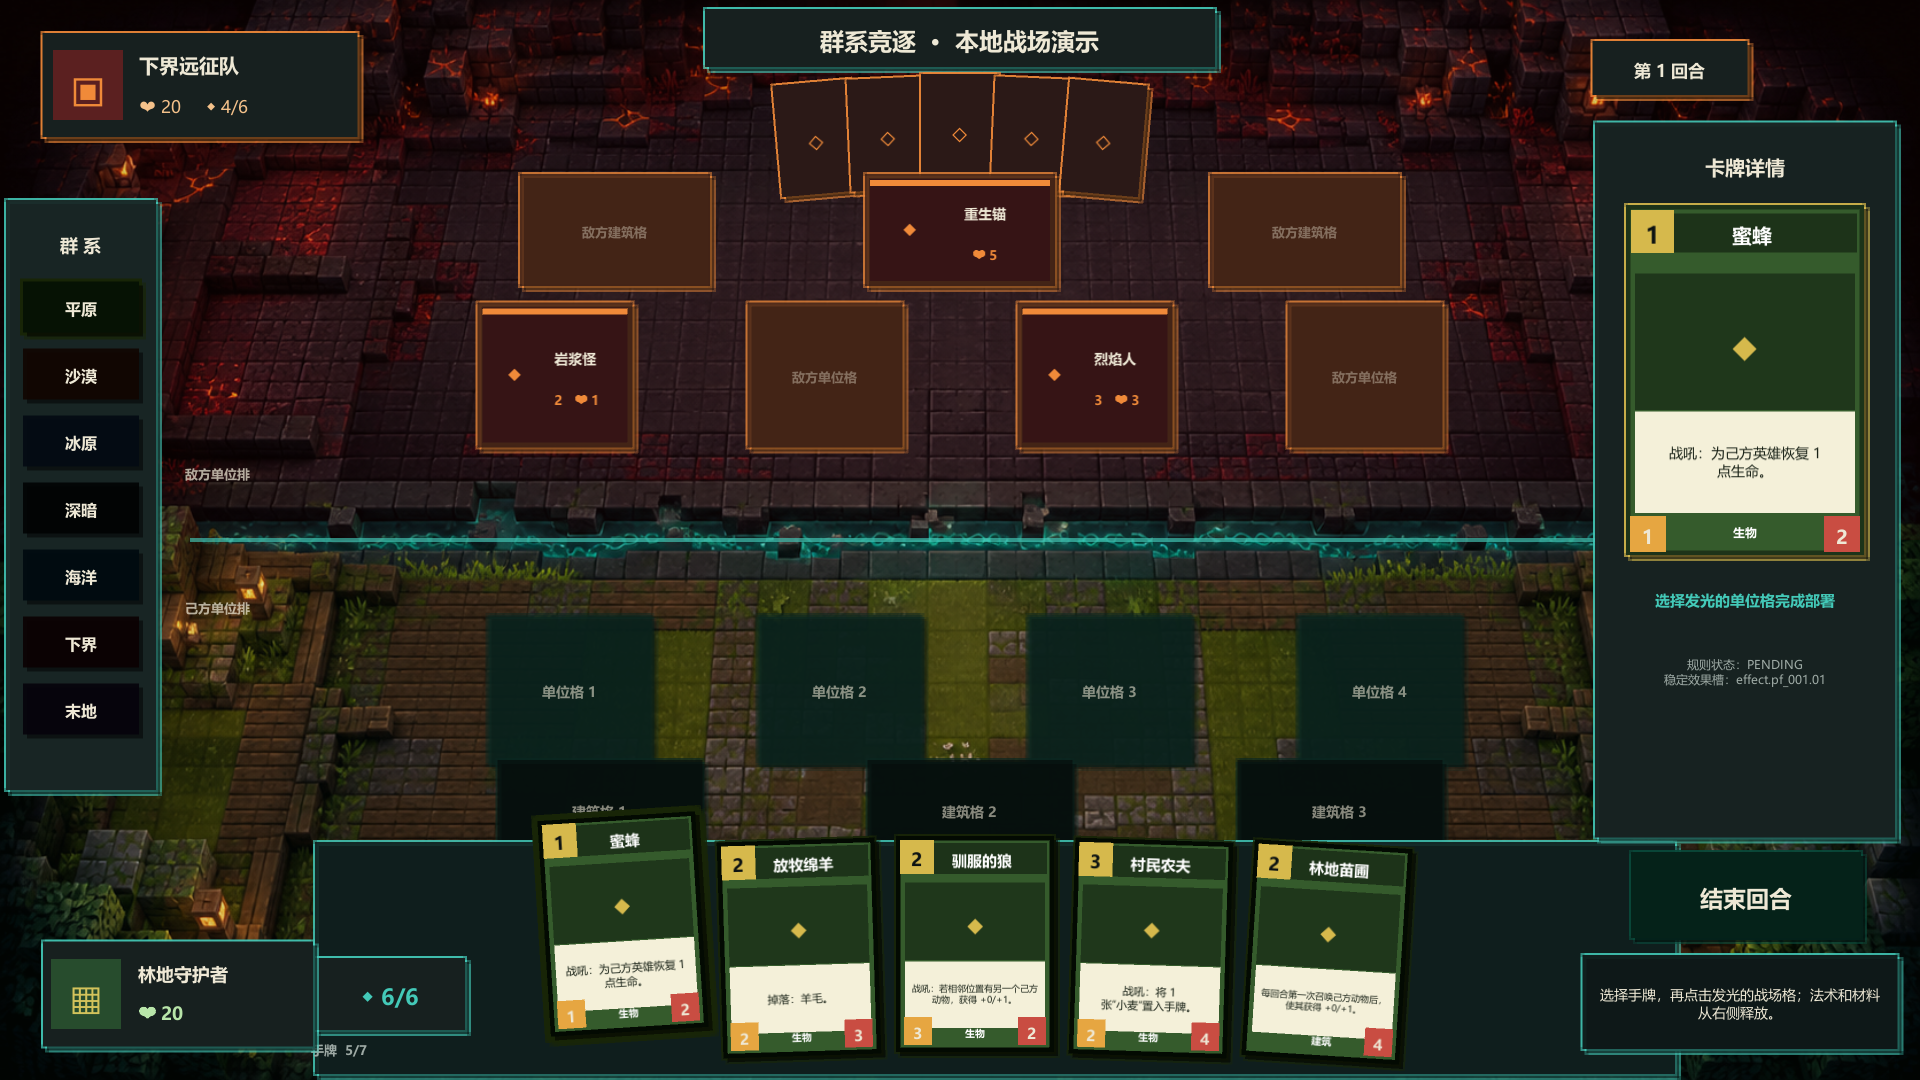
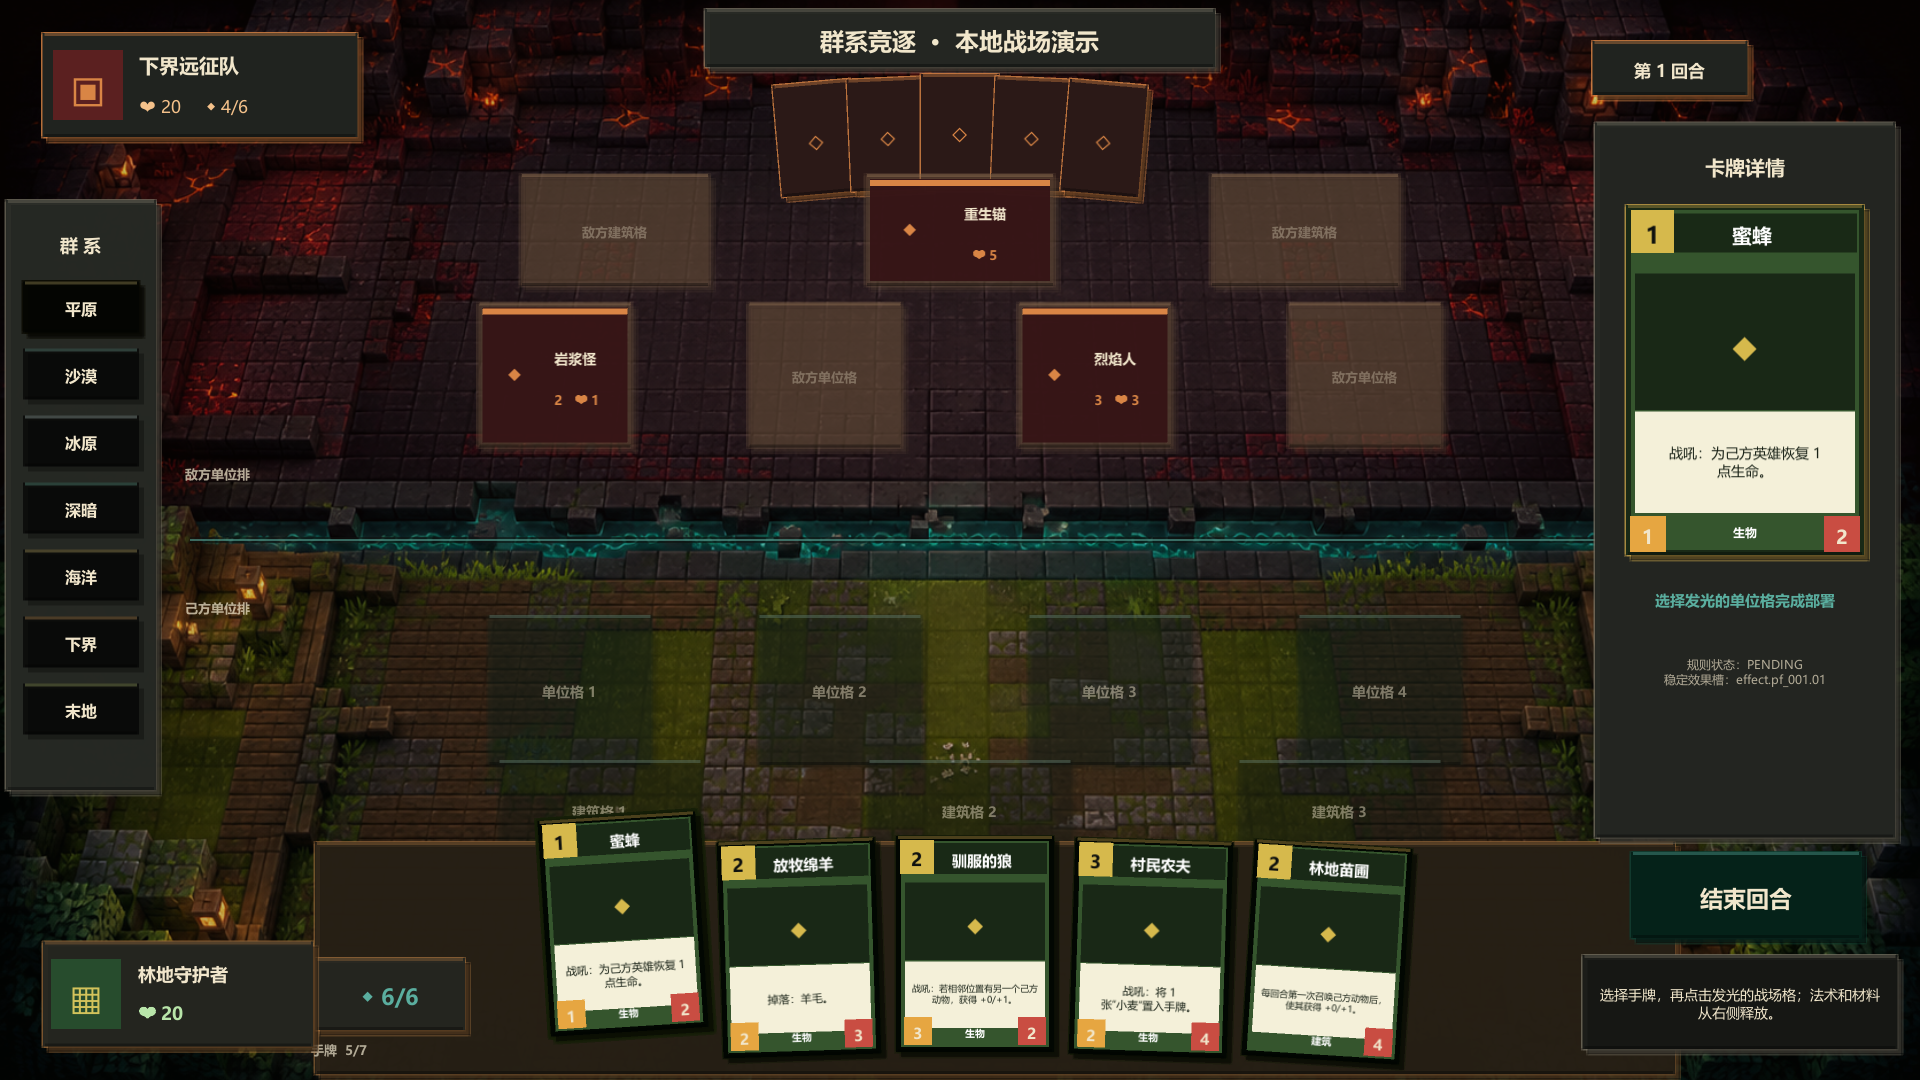
fix: unify demo UI with battlefield art

diff --git a/client-unity/Assets/Game/Demo/Runtime/DemoSceneController.cs b/client-unity/Assets/Game/Demo/Runtime/DemoSceneController.cs
@@ -15,13 +15,15 @@ namespace BiomeRivals.Demo
         private const float ReferenceWidth = 1920f;
         private const float ReferenceHeight = 1080f;
 
-        private static readonly Color Ink = Hex("#0C1212");
-        private static readonly Color Panel = Hex("#17201F");
-        private static readonly Color PanelRaised = Hex("#25302D");
-        private static readonly Color Pale = Hex("#EEE8D5");
-        private static readonly Color Muted = Hex("#9EAAA5");
-        private static readonly Color Cyan = Hex("#43C9B8");
-        private static readonly Color Ember = Hex("#F08A39");
+        private static readonly Color Ink = Hex("#0E100E");
+        private static readonly Color Panel = Hex("#20231F");
+        private static readonly Color PanelRaised = Hex("#34382F");
+        private static readonly Color Pale = Hex("#F1E6CB");
+        private static readonly Color Muted = Hex("#B2AA96");
+        private static readonly Color Cyan = Hex("#5AAE9F");
+        private static readonly Color Ember = Hex("#D98545");
+        private static readonly Color StoneEdge = Hex("#777263");
+        private static readonly Color OakEdge = Hex("#9A6A3A");
         private static readonly Color Danger = Hex("#E05A47");
 
         [SerializeField] private Sprite battlefieldBackground;
@@ -101,9 +103,11 @@ namespace BiomeRivals.Demo
             background.sprite = battlefieldBackground;
             background.type = Image.Type.Simple;
             background.raycastTarget = false;
-            CreateTintBand("OpponentTint", new Vector2(0, 270), new Vector2(ReferenceWidth, 540), new Color(0.18f, 0.03f, 0.03f, 0.18f));
-            CreateTintBand("PlayerTint", new Vector2(0, -270), new Vector2(ReferenceWidth, 540), new Color(0.02f, 0.12f, 0.07f, 0.12f));
-            CreatePanel(_canvasRoot, "CenterRiverGlow", new Vector2(0, 0), new Vector2(1540, 4), new Color(Cyan.r, Cyan.g, Cyan.b, 0.65f));
+            CreateTintBand("BackdropWash", Vector2.zero, new Vector2(ReferenceWidth, ReferenceHeight), new Color(0.02f, 0.025f, 0.02f, 0.16f));
+            CreateTintBand("OpponentTint", new Vector2(0, 270), new Vector2(ReferenceWidth, 540), new Color(0.16f, 0.035f, 0.025f, 0.10f));
+            CreateTintBand("PlayerTint", new Vector2(0, -270), new Vector2(ReferenceWidth, 540), new Color(0.035f, 0.10f, 0.045f, 0.08f));
+            CreatePanel(_canvasRoot, "CenterRiverBed", new Vector2(0, 0), new Vector2(1540, 6), new Color(Ink.r, Ink.g, Ink.b, 0.58f)).raycastTarget = false;
+            CreatePanel(_canvasRoot, "CenterRiverGlow", new Vector2(0, 0), new Vector2(1540, 2), new Color(Cyan.r, Cyan.g, Cyan.b, 0.56f)).raycastTarget = false;
 
             BuildTopChrome();
             BuildFactionRail();
@@ -117,7 +121,7 @@ namespace BiomeRivals.Demo
 
         private void BuildTopChrome()
         {
-            var titlePlate = CreateFramedPanel(_canvasRoot, "TitlePlate", new Vector2(0, 502), new Vector2(510, 58), Panel, Cyan);
+            var titlePlate = CreateFramedPanel(_canvasRoot, "TitlePlate", new Vector2(0, 502), new Vector2(510, 58), new Color(Panel.r, Panel.g, Panel.b, 0.90f), StoneEdge);
             CreateText(titlePlate, "Title", Vector2.zero, new Vector2(480, 44), "群系竞逐  ·  本地战场演示", 24, Pale, TextAnchor.MiddleCenter, FontStyle.Bold);
 
             var opponentHud = CreateFramedPanel(_canvasRoot, "OpponentHUD", new Vector2(-760, 455), new Vector2(315, 104), Panel, Ember);
@@ -135,7 +139,7 @@ namespace BiomeRivals.Demo
                 CreateText(back, "Rune", Vector2.zero, new Vector2(58, 80), "◇", 32, Ember, TextAnchor.MiddleCenter, FontStyle.Bold);
             }
 
-            _playerHud = CreateFramedPanel(_canvasRoot, "PlayerHUD", new Vector2(-782, -454), new Vector2(270, 105), Panel, Cyan);
+            _playerHud = CreateFramedPanel(_canvasRoot, "PlayerHUD", new Vector2(-782, -454), new Vector2(270, 105), new Color(Panel.r, Panel.g, Panel.b, 0.93f), OakEdge);
             CreatePanel(_playerHud, "Avatar", new Vector2(-92, 0), new Vector2(70, 70), Hex("#274C2D"));
             CreateText(_playerHud, "AvatarGlyph", new Vector2(-92, 1), new Vector2(60, 60), "▦", 34, Hex("#D3C35B"), TextAnchor.MiddleCenter, FontStyle.Bold);
             CreateText(_playerHud, "Name", new Vector2(35, 22), new Vector2(150, 30), "林地守护者", 18, Pale, TextAnchor.MiddleLeft, FontStyle.Bold);
@@ -144,14 +148,14 @@ namespace BiomeRivals.Demo
 
         private void BuildFactionRail()
         {
-            var rail = CreateFramedPanel(_canvasRoot, "FactionRail", new Vector2(-879, 45), new Vector2(150, 590), new Color(Panel.r, Panel.g, Panel.b, 0.92f), Cyan);
+            var rail = CreateFramedPanel(_canvasRoot, "FactionRail", new Vector2(-879, 45), new Vector2(150, 590), new Color(Panel.r, Panel.g, Panel.b, 0.86f), StoneEdge);
             CreateText(rail, "Header", new Vector2(0, 252), new Vector2(120, 48), "群 系", 18, Pale, TextAnchor.MiddleCenter, FontStyle.Bold);
 
             for (var i = 0; i < Factions.Length; i++)
             {
                 var spec = Factions[i];
                 _registry.TryGetTheme(spec.Id, out var theme);
-                var button = CreateButton(rail, "Faction_" + spec.Id, new Vector2(0, 188 - i * 67), new Vector2(116, 51), theme.FrameDark, theme.Accent, spec.Label, 16);
+                var button = CreateButton(rail, "Faction_" + spec.Id, new Vector2(0, 188 - i * 67), new Vector2(116, 51), new Color(Ink.r, Ink.g, Ink.b, 0.82f), Color.Lerp(theme.Accent, StoneEdge, 0.55f), spec.Label, 16);
                 var captured = spec.Id;
                 button.onClick.AddListener(() => SelectFaction(captured));
                 _factionButtons.Add(new FactionButtonView(spec.Id, button, button.targetGraphic as Image, theme));
@@ -181,24 +185,26 @@ namespace BiomeRivals.Demo
 
         private SlotView CreatePlayerSlot(DemoSlotKind kind, int index, Vector2 position, Vector2 size)
         {
-            var root = CreateFramedPanel(_canvasRoot, $"Player{kind}Slot{index}", position, size, new Color(PanelRaised.r, PanelRaised.g, PanelRaised.b, 0.78f), Cyan);
+            var slotEdge = Color.Lerp(Cyan, StoneEdge, 0.62f);
+            var slotFill = new Color(PanelRaised.r, PanelRaised.g, PanelRaised.b, 0.34f);
+            var root = CreateFramedPanel(_canvasRoot, $"Player{kind}Slot{index}", position, size, slotFill, slotEdge);
             var button = root.gameObject.AddComponent<Button>();
             button.targetGraphic = root.GetComponent<Image>();
-            ConfigureButtonColors(button, new Color(PanelRaised.r, PanelRaised.g, PanelRaised.b, 0.78f), Cyan);
+            ConfigureButtonColors(button, slotFill, Cyan);
             var capturedKind = kind;
             var capturedIndex = index;
             button.onClick.AddListener(() => OnSlotClicked(capturedKind, capturedIndex));
             var content = CreateRect(root, "Content", Vector2.zero, size - new Vector2(12, 12));
-            var label = CreateText(content, "EmptyLabel", Vector2.zero, size - new Vector2(20, 20), kind == DemoSlotKind.Unit ? $"单位格 {index + 1}" : $"建筑格 {index + 1}", 14, new Color(Pale.r, Pale.g, Pale.b, 0.56f), TextAnchor.MiddleCenter, FontStyle.Bold);
+            var label = CreateText(content, "EmptyLabel", Vector2.zero, size - new Vector2(20, 20), kind == DemoSlotKind.Unit ? $"单位格 {index + 1}" : $"建筑格 {index + 1}", 14, new Color(Pale.r, Pale.g, Pale.b, 0.46f), TextAnchor.MiddleCenter, FontStyle.Bold);
             return new SlotView(kind, index, root.GetComponent<Image>(), button, content, label);
         }
 
         private void CreateOpponentSlot(DemoSlotKind kind, int index, Vector2 position, Vector2 size, string cardId)
         {
-            var root = CreateFramedPanel(_canvasRoot, $"Opponent{kind}Slot{index}", position, size, new Color(0.16f, 0.08f, 0.07f, 0.74f), Ember);
+            var root = CreateFramedPanel(_canvasRoot, $"Opponent{kind}Slot{index}", position, size, new Color(0.15f, 0.085f, 0.065f, 0.19f), Color.Lerp(Ember, StoneEdge, 0.64f));
             if (string.IsNullOrEmpty(cardId))
             {
-                CreateText(root, "Empty", Vector2.zero, size - new Vector2(20, 20), kind == DemoSlotKind.Unit ? "敌方单位格" : "敌方建筑格", 13, new Color(Pale.r, Pale.g, Pale.b, 0.38f), TextAnchor.MiddleCenter, FontStyle.Bold);
+                CreateText(root, "Empty", Vector2.zero, size - new Vector2(20, 20), kind == DemoSlotKind.Unit ? "敌方单位格" : "敌方建筑格", 13, new Color(Pale.r, Pale.g, Pale.b, 0.32f), TextAnchor.MiddleCenter, FontStyle.Bold);
                 return;
             }
             CreateBoardPiece(root, cardId, size - new Vector2(10, 10), true);
@@ -206,20 +212,20 @@ namespace BiomeRivals.Demo
 
         private void BuildHandArea()
         {
-            var handPlate = CreateFramedPanel(_canvasRoot, "HandPlate", new Vector2(35, -418), new Vector2(1360, 232), new Color(Ink.r, Ink.g, Ink.b, 0.86f), Cyan);
+            var handPlate = CreateFramedPanel(_canvasRoot, "HandPlate", new Vector2(35, -418), new Vector2(1360, 232), new Color(Ink.r, Ink.g, Ink.b, 0.72f), OakEdge);
             _handRoot = CreateRect(handPlate, "HandCards", new Vector2(-20, 14), new Vector2(1250, 225));
             CreateText(_canvasRoot, "HandLabel", new Vector2(-584, -508), new Vector2(130, 25), "手牌  5/7", 13, Muted, TextAnchor.MiddleLeft, FontStyle.Bold);
         }
 
         private void BuildInspector()
         {
-            var panel = CreateFramedPanel(_canvasRoot, "InspectorPanel", new Vector2(785, 60), new Vector2(300, 715), new Color(Panel.r, Panel.g, Panel.b, 0.96f), Cyan);
+            var panel = CreateFramedPanel(_canvasRoot, "InspectorPanel", new Vector2(785, 60), new Vector2(300, 715), new Color(Panel.r, Panel.g, Panel.b, 0.92f), StoneEdge);
             _inspectorRoot = CreateRect(panel, "InspectorContent", Vector2.zero, new Vector2(280, 695));
         }
 
         private void BuildTurnControls()
         {
-            var energyPlate = CreateFramedPanel(_canvasRoot, "EnergyPlate", new Vector2(-570, -454), new Vector2(150, 72), Panel, Cyan);
+            var energyPlate = CreateFramedPanel(_canvasRoot, "EnergyPlate", new Vector2(-570, -454), new Vector2(150, 72), new Color(Panel.r, Panel.g, Panel.b, 0.92f), OakEdge);
             _energyText = CreateText(energyPlate, "Energy", Vector2.zero, new Vector2(130, 54), "◆ 6/6", 22, Cyan, TextAnchor.MiddleCenter, FontStyle.Bold);
 
             var roundPlate = CreateFramedPanel(_canvasRoot, "RoundPlate", new Vector2(710, 472), new Vector2(155, 54), Panel, Ember);
@@ -230,7 +236,7 @@ namespace BiomeRivals.Demo
             _endTurnButton.onClick.AddListener(OnEndTurn);
             _endTurnButton.gameObject.AddComponent<DemoHoverScale>().Configure(1.04f, 16f);
 
-            var statusPlate = CreateFramedPanel(_canvasRoot, "StatusPlate", new Vector2(780, -462), new Vector2(315, 94), new Color(Ink.r, Ink.g, Ink.b, 0.92f), Cyan);
+            var statusPlate = CreateFramedPanel(_canvasRoot, "StatusPlate", new Vector2(780, -462), new Vector2(315, 94), new Color(Ink.r, Ink.g, Ink.b, 0.86f), StoneEdge);
             _statusText = CreateText(statusPlate, "Status", Vector2.zero, new Vector2(285, 70), string.Empty, 14, Pale, TextAnchor.MiddleCenter, FontStyle.Normal);
         }
 
@@ -271,13 +277,15 @@ namespace BiomeRivals.Demo
             foreach (var view in _factionButtons)
             {
                 var active = view.Id == _activeFaction;
-                view.Image.color = active ? view.Theme.FrameBase : new Color(view.Theme.FrameDark.r, view.Theme.FrameDark.g, view.Theme.FrameDark.b, 0.92f);
+                view.Image.color = active
+                    ? Color.Lerp(view.Theme.FrameBase, PanelRaised, 0.22f)
+                    : new Color(Ink.r, Ink.g, Ink.b, 0.82f);
                 var outline = view.Button.GetComponent<Outline>();
                 if (active && outline == null) outline = view.Button.gameObject.AddComponent<Outline>();
                 if (outline != null)
                 {
                     outline.effectColor = view.Theme.Accent;
-                    outline.effectDistance = active ? new Vector2(3, -3) : Vector2.zero;
+                    outline.effectDistance = active ? new Vector2(1.5f, -1.5f) : Vector2.zero;
                     outline.enabled = active;
                 }
             }
@@ -303,7 +311,7 @@ namespace BiomeRivals.Demo
                     _registry.TryGetDefinition(cardId, out var definition);
                     _registry.TryGetTheme(definition.themeId, out var theme);
                     outline.effectColor = theme.Accent;
-                    outline.effectDistance = new Vector2(4, -4);
+                    outline.effectDistance = new Vector2(2, -2);
                     card.SetAsLastSibling();
                 }
             }
@@ -322,8 +330,8 @@ namespace BiomeRivals.Demo
             view.EmptyLabel.gameObject.SetActive(empty);
             var valid = empty && IsSelectedValidFor(view.Kind);
             view.Image.color = valid
-                ? new Color(Cyan.r, Cyan.g, Cyan.b, 0.52f)
-                : new Color(PanelRaised.r, PanelRaised.g, PanelRaised.b, empty ? 0.78f : 0.94f);
+                ? new Color(Cyan.r, Cyan.g, Cyan.b, 0.46f)
+                : new Color(PanelRaised.r, PanelRaised.g, PanelRaised.b, empty ? 0.34f : 0.92f);
 
             if (!empty)
             {
@@ -489,23 +497,26 @@ namespace BiomeRivals.Demo
                 throw new InvalidOperationException("Card content is not registered: " + cardId);
             _registry.TryGetTheme(definition.themeId, out var theme);
 
-            var root = CreateFramedPanel(parent, "Card_" + cardId, Vector2.zero, size, theme.FrameDark, theme.Accent);
+            var shell = Color.Lerp(theme.FrameDark, Ink, 0.28f);
+            var frame = Color.Lerp(theme.FrameBase, PanelRaised, 0.18f);
+            var cardEdge = Color.Lerp(theme.Accent, OakEdge, 0.34f);
+            var root = CreateFramedPanel(parent, "Card_" + cardId, Vector2.zero, size, shell, cardEdge);
             var image = root.GetComponent<Image>();
             if (onClick != null)
             {
                 var button = root.gameObject.AddComponent<Button>();
                 button.targetGraphic = image;
-                ConfigureButtonColors(button, theme.FrameDark, theme.Accent);
+                ConfigureButtonColors(button, shell, theme.Accent);
                 button.onClick.AddListener(() => onClick());
             }
 
-            var inner = CreatePanel(root, "Frame", Vector2.zero, size - new Vector2(9, 9), theme.FrameBase);
+            var inner = CreatePanel(root, "Frame", Vector2.zero, size - new Vector2(10, 10), frame);
             inner.raycastTarget = false;
             var h = size.y;
             var w = size.x;
             var titleHeight = compact ? 31f : 39f;
             var titleY = h * 0.5f - titleHeight * 0.72f;
-            CreatePanel(root, "TitleBand", new Vector2(0, titleY), new Vector2(w - 14, titleHeight), theme.FrameDark).raycastTarget = false;
+            CreatePanel(root, "TitleBand", new Vector2(0, titleY), new Vector2(w - 14, titleHeight), shell).raycastTarget = false;
             CreateText(root, "Name", new Vector2(7, titleY), new Vector2(w - 50, titleHeight - 4), text.name, compact ? 15 : 20, theme.TitleText, TextAnchor.MiddleCenter, FontStyle.Bold);
 
             var costSize = compact ? 34f : 43f;
@@ -514,7 +525,9 @@ namespace BiomeRivals.Demo
 
             var artHeight = compact ? h * 0.36f : h * 0.39f;
             var artY = compact ? h * 0.105f : h * 0.11f;
-            CreatePanel(root, "ArtWell", new Vector2(0, artY), new Vector2(w - 18, artHeight), new Color(theme.FrameDark.r, theme.FrameDark.g, theme.FrameDark.b, 0.9f)).raycastTarget = false;
+            var artWell = Color.Lerp(theme.FrameDark, Ink, 0.40f);
+            artWell.a = 0.94f;
+            CreatePanel(root, "ArtWell", new Vector2(0, artY), new Vector2(w - 18, artHeight), artWell).raycastTarget = false;
             var sprite = DemoCardArtProvider.Load(cardId);
             if (sprite != null)
             {
@@ -581,11 +594,16 @@ namespace BiomeRivals.Demo
             var image = root.gameObject.AddComponent<Image>();
             image.color = fill;
             var shadow = root.gameObject.AddComponent<Shadow>();
-            shadow.effectColor = new Color(0, 0, 0, 0.55f);
-            shadow.effectDistance = new Vector2(4, -4);
+            shadow.effectColor = new Color(0, 0, 0, 0.46f);
+            shadow.effectDistance = new Vector2(5, -5);
             var outline = root.gameObject.AddComponent<Outline>();
-            outline.effectColor = new Color(edge.r, edge.g, edge.b, 0.72f);
-            outline.effectDistance = new Vector2(2, -2);
+            outline.effectColor = new Color(edge.r, edge.g, edge.b, 0.58f);
+            outline.effectDistance = new Vector2(1.25f, -1.25f);
+
+            var topBevel = CreatePanel(root, "TopBevel", new Vector2(0, size.y * 0.5f - 1.5f), new Vector2(Mathf.Max(0, size.x - 4), 3), new Color(edge.r, edge.g, edge.b, 0.38f));
+            topBevel.raycastTarget = false;
+            var bottomBevel = CreatePanel(root, "BottomBevel", new Vector2(0, -size.y * 0.5f + 1.5f), new Vector2(Mathf.Max(0, size.x - 4), 3), new Color(0, 0, 0, 0.32f));
+            bottomBevel.raycastTarget = false;
             return root;
         }
 

diff --git a/docs/design/Demo_UI_Design_v0.1.md b/docs/design/Demo_UI_Design_v0.1.md
@@ -18,6 +18,13 @@
 
 卡牌悬停、选中抬升、部署格高亮与回合反馈均使用短时平滑插值。正式动画库接入时应继续通过表现层接口隔离，避免动画直接修改规则状态。
 
+### 背景与 UI 一致性约束
+
+- 通用 HUD 只使用低饱和深板岩、旧木和羊皮纸色；青色仅表示能量、分界线和合法操作。
+- 群系主色只进入卡牌框、激活按钮和少量状态点，不给整块外围面板染色。
+- 空战场格采用半透明地面压印效果，已有单位才使用高不透明信息块。
+- 背景统一覆盖轻微暗色罩层，保证文字可读，同时保留上下群系材质差异。
+
 ## 素材与版权边界
 
 - 本机提取的 Minecraft 图标只在 Editor 或 Development Build 中用于内部原型，并被 Git 忽略。
